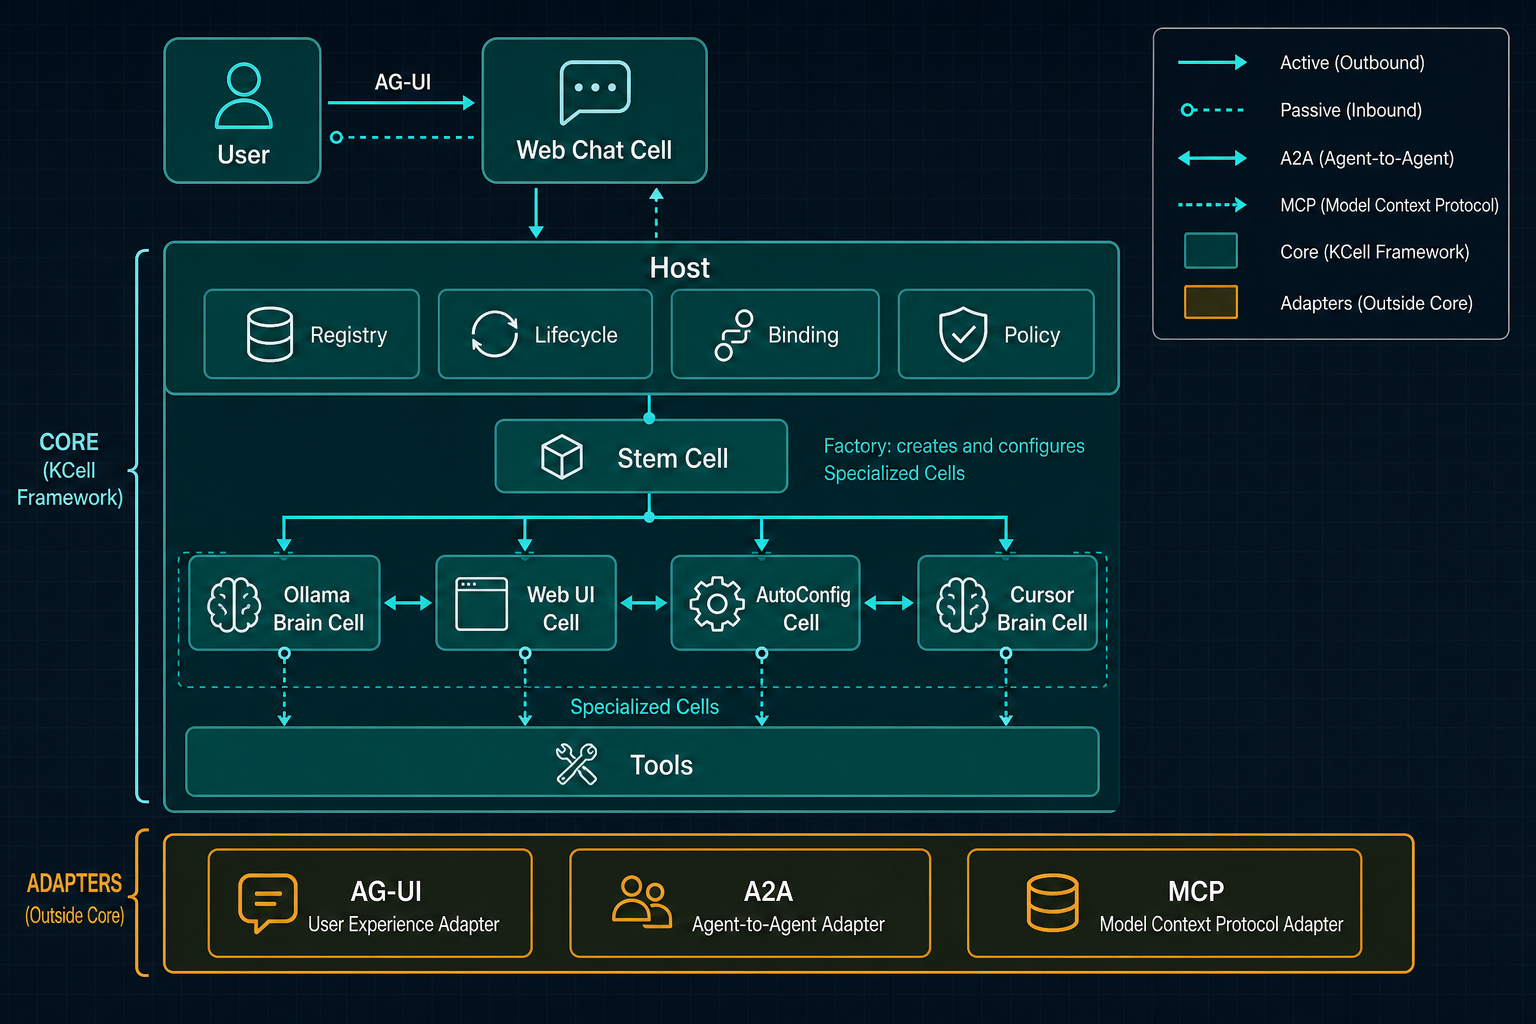
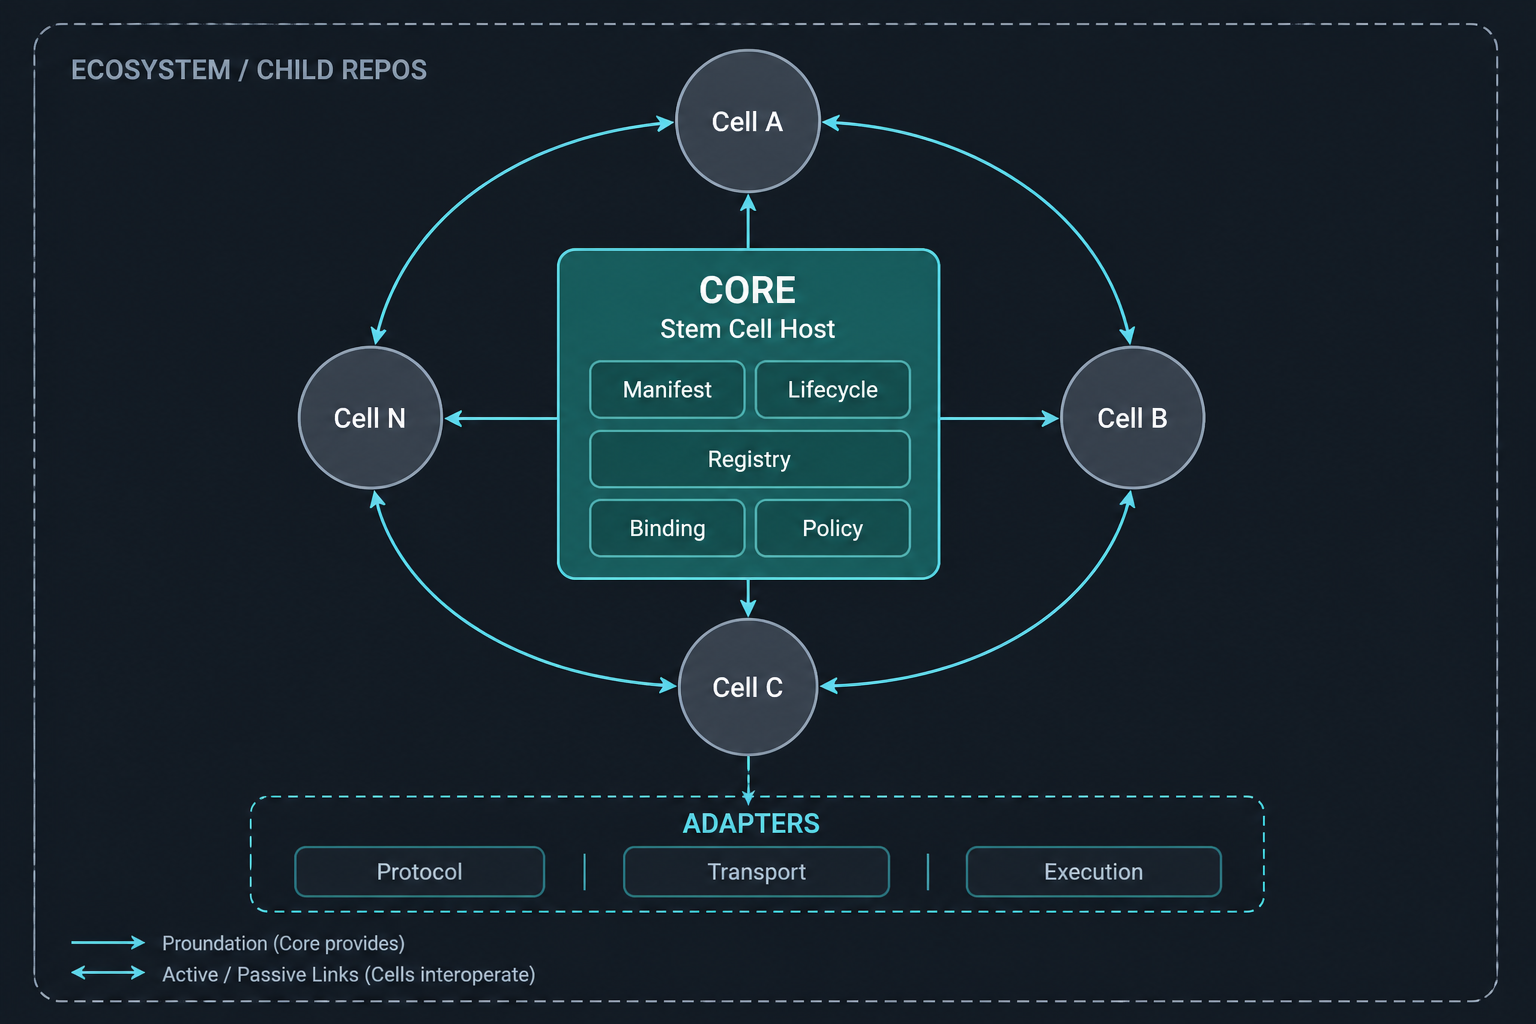
Generalize high-level architecture around the core Cell.
Keep the README and diagram focused on the Host kernel and open-ended Specialized Cells instead of demo product roles.

diff --git a/README.md b/README.md
@@ -12,44 +12,57 @@ Composable AI cells. Build specialized agents from a **Stem Cell**, compose them
 - **Stem Cell** — generic base that absorbs config, libraries, and code to become any specialized Cell
 - **AI-man** — a folder of Cells composed together (like an organism made of many cells)
 
-Example path: an Ollama brain Cell + web chatbot Cell + auto-config Cell become a local chat AI-man. Drop in a Cursor CLI brain later — the Host discovers it and the UI can offer Composer without rewriting the other Cells.
+Example (non-normative): one possible AI-man might wire a local model Cell, a chat UI Cell, and an auto-config Cell — then add another model Cell later. That scenario is illustrative only; the architecture does not prescribe those roles.
 
 ## High-level architecture
 
+KCell’s job is the **core Cell runtime and contracts** — the kernel other Cells and child repos specialize on. Product roles (models, UIs, tools, routers, …) are not fixed by this repo; they are just Specialized Cells built elsewhere.
+
 <p align="center">
-  <img src="docs/images/kcell-architecture.png" alt="KCell high-level architecture — Host core, Cells, and protocol adapters" width="100%" />
+  <img src="docs/images/kcell-architecture.png" alt="KCell architecture — core Host kernel with generic Specialized Cells and optional adapters" width="100%" />
 </p>
 
 ```mermaid
 flowchart TB
-    User[User] <-->|AG-UI| WebCell[WebChatCell]
-    WebCell --> Host[KCell Host]
-    AutoConfig[AutoConfigCell] -->|binding proposal| Host
-    Host --> Registry[Local Registry]
-    Host --> Lifecycle[Lifecycle]
-    Host --> Binding[Binding Resolver]
-    Host --> Policy[Policy Gate]
-    Host --> BrainO[OllamaBrainCell]
-    Host --> BrainC[CursorBrainCell]
-    Host --> WebCell
-    BrainO -->|MCP| Tools[Tool Cells]
-    BrainC -->|MCP| Tools
-    Stem[Stem Cell] -->|specialize| Specialized[Specialized Cells]
-    Specialized --> BrainO
-    Specialized --> WebCell
-    Specialized --> AutoConfig
-    Specialized --> BrainC
+    subgraph core [KCell core]
+        Host[Host]
+        Host --> Manifest[Manifest]
+        Host --> Lifecycle[Lifecycle]
+        Host --> Registry[Registry]
+        Host --> Binding[Binding]
+        Host --> Policy[Policy]
+    end
+
+    Stem[Stem Cell contract] -->|specialize via config code libs| Spec[Specialized Cells]
+    Spec --> CellA[Cell]
+    Spec --> CellB[Cell]
+    Spec --> CellN[Cell N]
+
+    CellA <-->|active / passive| CellB
+    CellB <-->|active / passive| CellN
+
+    Host -->|admit activate bind| CellA
+    Host --> CellB
+    Host --> CellN
+
+    CellA -.->|binding proposal optional| Host
+
+    Adapters[Optional adapters] -.-> Host
+    Adapters -.-> Spec
+    childRepos[Child repos] -->|depend on contracts| core
+    childRepos --> Spec
 ```
 
-| Layer | Responsibility |
-|-------|----------------|
-| **Host core** | Manifests, lifecycle, registry, binding apply, deny-by-default policy — no product logic |
-| **Stem → Specialized Cells** | Absorb config/code/libs into versioned Cell packages (brain, UI, auto-config, …) |
-| **Active / Passive** | Same Cell can call out and accept inbound work; not two hard Cell types |
-| **Adapters (out of core)** | AG-UI (user), A2A (agent↔agent), MCP (tools/data) |
-| **AI-man** | Composition manifest: which Cells, bindings, and shared policy to activate together |
+| Layer | What it is | What it is not |
+|-------|------------|----------------|
+| **Core / Host** | Tiny mechanisms: manifest, lifecycle, registry, binding, deny-by-default policy, execution interfaces | Not a product app, not a model vendor layer, not a UI kit |
+| **Stem Cell** | Generic specialize-from-inputs contract (config, code, libraries → Cell package) | Not a hard-coded “brain” or “chat” type |
+| **Specialized Cell** | Any package that declares capabilities, ports, and permissions | Not limited to the demo Cells in `examples/` |
+| **Active / Passive** | Communication *capabilities* on the same Cell | Not two separate Cell species |
+| **Adapters** | Optional bridges (protocols, transports, executors) outside core | Not required to invent a Cell |
+| **AI-man** | Composition of Cells + bindings + shared policy | Not a fixed topology from this README |
 
-Control plane stays small. Routing strategy, model vendors, and UI live in Cells or adapters — not in `kcell_core`.
+Anything domain-specific belongs in a **Cell** or a **child repo** that depends on these contracts. Core stays stable so extension stays open-ended.
 
 ## Non-functional requirements
 
